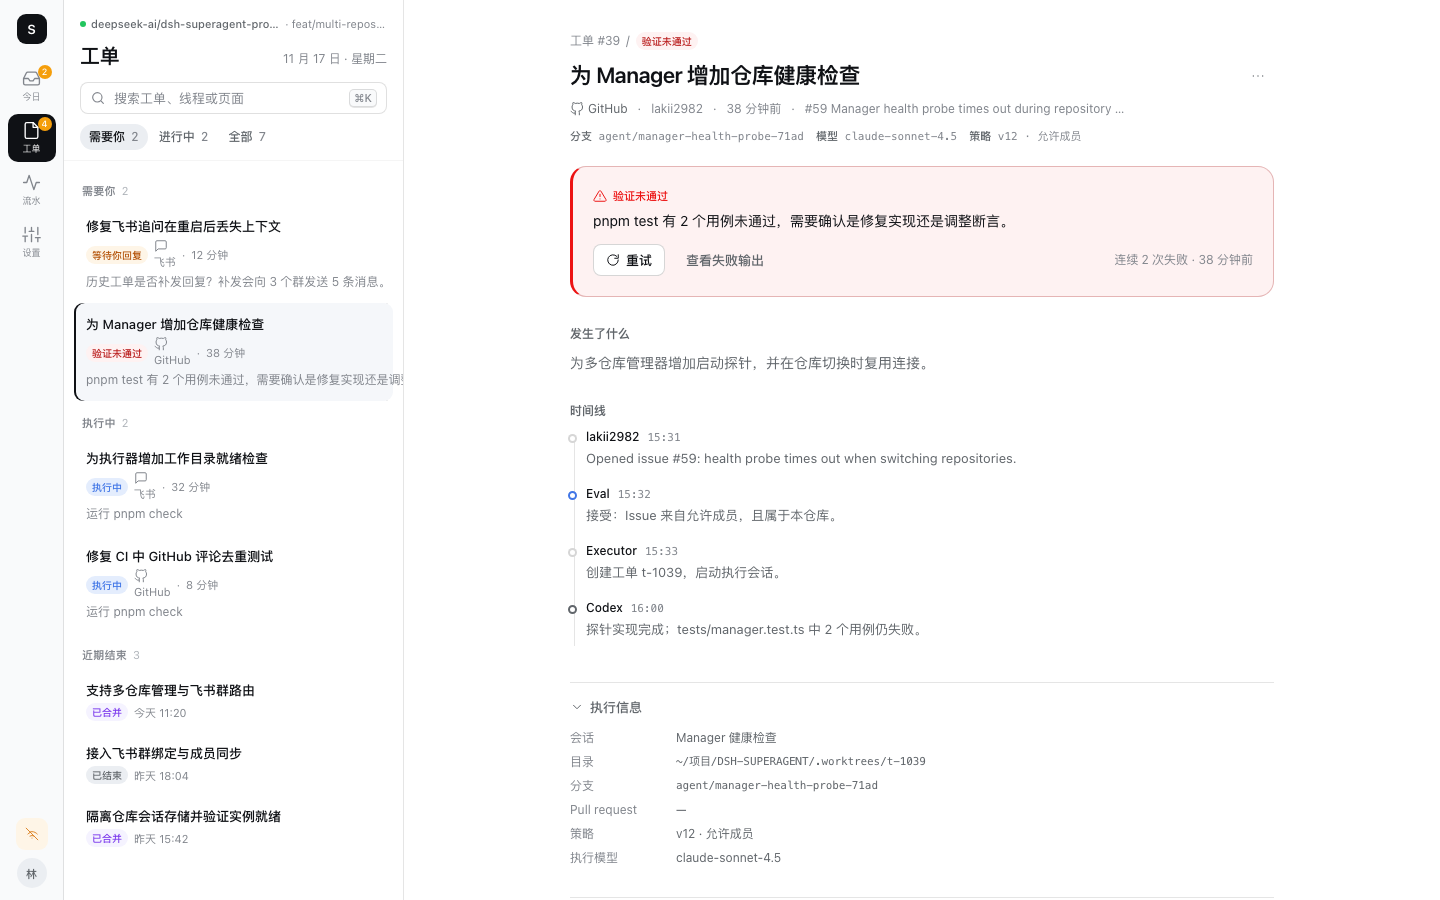
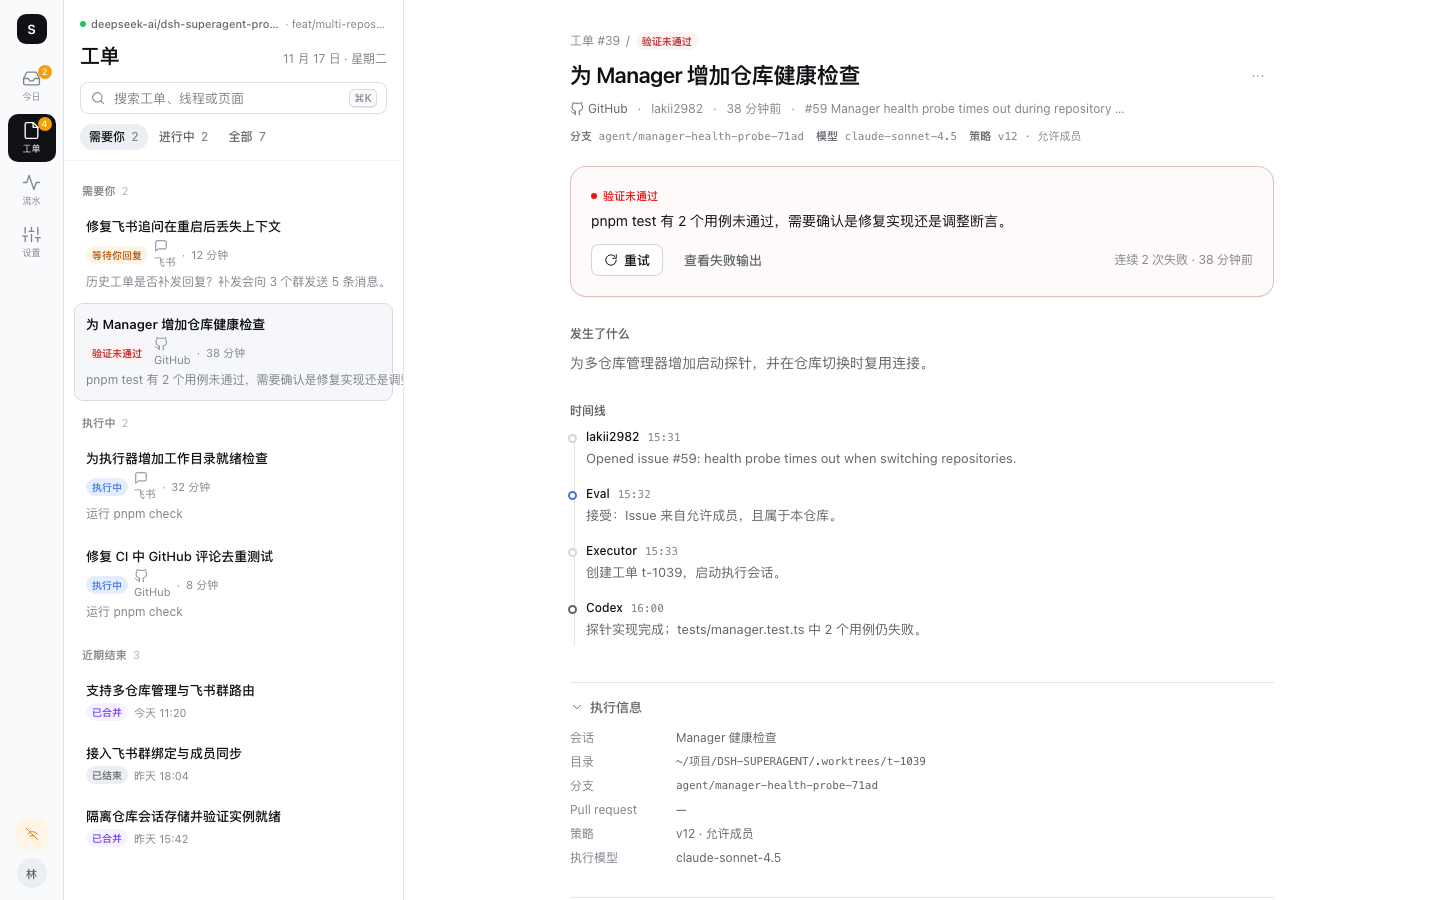
docs(design): replace card accent bars with soft surface emphasis

Changed region(s): [[0.4062, 0.1867, 0.6875, 0.2489], [0.4062, 0.28, 0.5312, 0.3111], [0.0938, 0.3422, 0.1875, 0.3733]]

diff --git a/design/panel-redesign/solution.html b/design/panel-redesign/solution.html
@@ -47,7 +47,8 @@
   .group-label span { color: var(--ink-4); font-weight: 400; }
   .task-row { display: block; width: 100%; padding: 9px 10px; border: 0; border-radius: 8px; background: transparent; text-align: left; }
   .task-row:hover { background: var(--hover); }
-  .task-row[aria-selected='true'] { background: var(--bg-soft); box-shadow: inset 2px 0 0 var(--ink-1); }
+  .task-row[aria-selected='true'] { background: var(--bg-soft); box-shadow: inset 0 0 0 1px var(--line-3); }
+  .task-row[aria-selected='true'] .task-title { font-weight: 600; }
   .task-title { display: block; overflow: hidden; text-overflow: ellipsis; white-space: nowrap; color: var(--ink-1); font: 500 13px/20px var(--font); }
   .task-meta { display: flex; align-items: center; gap: 6px; margin-top: 3px; color: var(--ink-3); font: 400 11px/17px var(--font); }
   .task-meta .badge { height: 18px; font-size: 10px; line-height: 18px; padding: 0 6px; }
@@ -68,9 +69,9 @@
   .meta-line { display: flex; flex-wrap: wrap; gap: 4px 12px; margin-top: 10px; color: var(--ink-3); font: 400 11px/18px var(--mono); }
   .meta-line b { color: var(--ink-2); font-weight: 500; }
   .actions { display: flex; flex-wrap: wrap; gap: 8px; margin: 18px 0 4px; }
-  .question { margin-top: 18px; padding: 15px 16px; border: 1px solid color-mix(in srgb, var(--amber) 22%, var(--line-2)); border-left: 3px solid var(--amber); border-radius: 12px; background: var(--amber-soft); }
+  .question { margin-top: 18px; padding: 15px 16px; border: 1px solid color-mix(in srgb, var(--amber) 18%, var(--line-3)); border-radius: 12px; background: color-mix(in srgb, var(--amber-soft) 45%, #fff); box-shadow: 0 1px 2px rgba(15, 17, 21, 0.03); }
   .question .q-kicker { display: flex; align-items: center; gap: 6px; color: var(--amber-label); font: 500 11px/18px var(--font); }
-  .question.blocked { background: var(--red-soft); border-color: color-mix(in srgb, var(--red) 18%, var(--line-2)); border-left-color: var(--red); }
+  .question.blocked { background: color-mix(in srgb, var(--red-soft) 38%, #fff); border-color: color-mix(in srgb, var(--red) 14%, var(--line-3)); }
   .question.blocked .q-kicker { color: var(--red); }
   .question p { margin-top: 4px; color: var(--ink-1); font: 400 14px/22px var(--font); }
   .question .answer { margin-top: 12px; padding-top: 12px; border-top: 1px solid color-mix(in srgb, var(--amber) 20%, transparent); }
@@ -432,7 +433,7 @@
 
         ${question ? (ticket.stage === 'waiting' ? `
           <section class="question" aria-label="等待你的回复">
-            <div class="q-kicker">${S.icon('message', 'icon-sm')} 等待你回复</div>
+            <div class="q-kicker"><span class="dot dot-amber"></span> 等待你回复</div>
             <p>${S.esc(ticket.question)}</p>
             ${sent ? `<div class="answered">${S.icon('checkCircle', 'icon-sm')} 已回复 · 工单会继续执行</div>` : `
               <div class="answer">
@@ -443,7 +444,7 @@
               </div>`}
           </section>` : `
           <section class="question blocked" aria-label="验证未通过">
-            <div class="q-kicker">${S.icon('alert', 'icon-sm')} 验证未通过</div>
+            <div class="q-kicker"><span class="dot dot-red"></span> 验证未通过</div>
             <p>${S.esc(ticket.question)}</p>
             <div class="row" style="margin-top:12px"><button class="btn btn-outline" data-action="toast" data-text="重试在原型中不可用">${S.icon('refresh', 'icon-sm')} 重试</button>
               <button class="btn btn-ghost" data-action="toast" data-text="失败输出在原型中不可用">查看失败输出</button>

diff --git a/design/panel-redesign/index.html b/design/panel-redesign/index.html
@@ -127,7 +127,7 @@
     <div class="shot-caption"><span>默认打开今日队列，右侧是当前这件事的完整上下文</span><span><code>solution.html?view=home</code> · 缩放 69%</span></div>
     <div class="concept-notes">
       <div class="note"><h3>来自 V1</h3><p>三栏队列分栏与行内处理；<code>⌘K</code> 命令面板保留为全局入口。</p><small>j / k 移动 · Enter 打开 · ⌘K 搜索</small></div>
-      <div class="note"><h3>来自 V3</h3><p>设置页的四步清单、分组卡片与保存条；黑色的当前导航、16px 卡片、克制的留白。</p><small>设置隐藏队列，占满内容区</small></div>
+      <div class="note"><h3>来自 V3</h3><p>设置页的四步清单、分组卡片与保存条；黑色的当前导航、16px 卡片、克制的留白。强调不使用左侧色条，改用浅色表面、完整描边和状态点。</p><small>设置隐藏队列，占满内容区</small></div>
       <div class="note"><h3>整合后的取舍</h3><p>队列占 340px，右侧详情更宽；导航收成 64px 图标栏，仓库上下文回到队列顶部。</p><small>1440 宽下优先级最高的是队列与详情</small></div>
     </div>
   </article>

diff --git a/design/panel-redesign/README.md b/design/panel-redesign/README.md
@@ -20,6 +20,7 @@
 - **设置**：隐藏队列、占满内容区；V3 的四步首次配置、来源 / 仓库 / 准入 / 执行 / 部署卡片与底部保存条。
 - **命令面板**：V1 的分组与键盘操作，V3 的圆角、半透明底与轻阴影。
 - **视觉**：黑主按钮、系统字体、12/13/14/16/20 字号、16px 卡片、1px 发丝线；蓝色只做链接与进行中，紫色只做完成。
+- **强调**：不用卡片左侧色条；等待/失败卡用整体浅色表面 + 完整 1px 边框 + 状态点，选中的队列行用浅灰底 + 完整描边 + 加粗标题。
 
 整合后仍然保留四个入口：今日 / 工单 / 流水 / 设置；来源、触发、评估合并进「流水」的筛选与详情。
 
